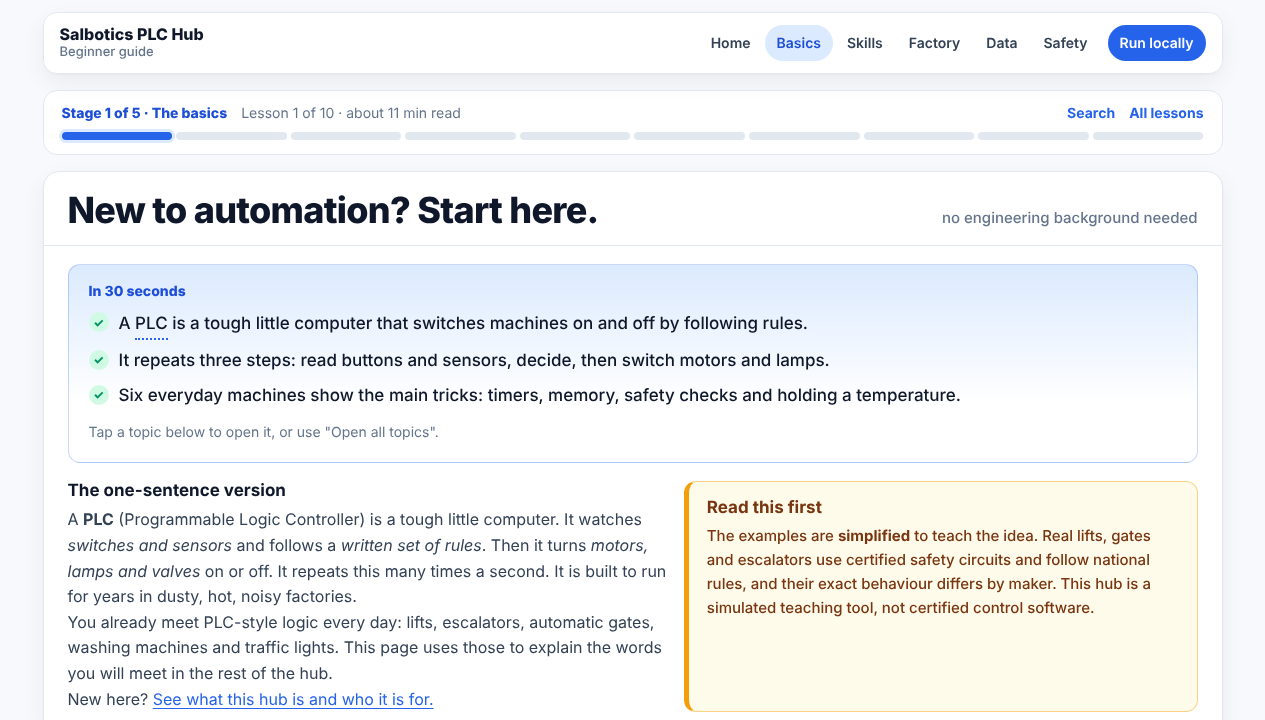
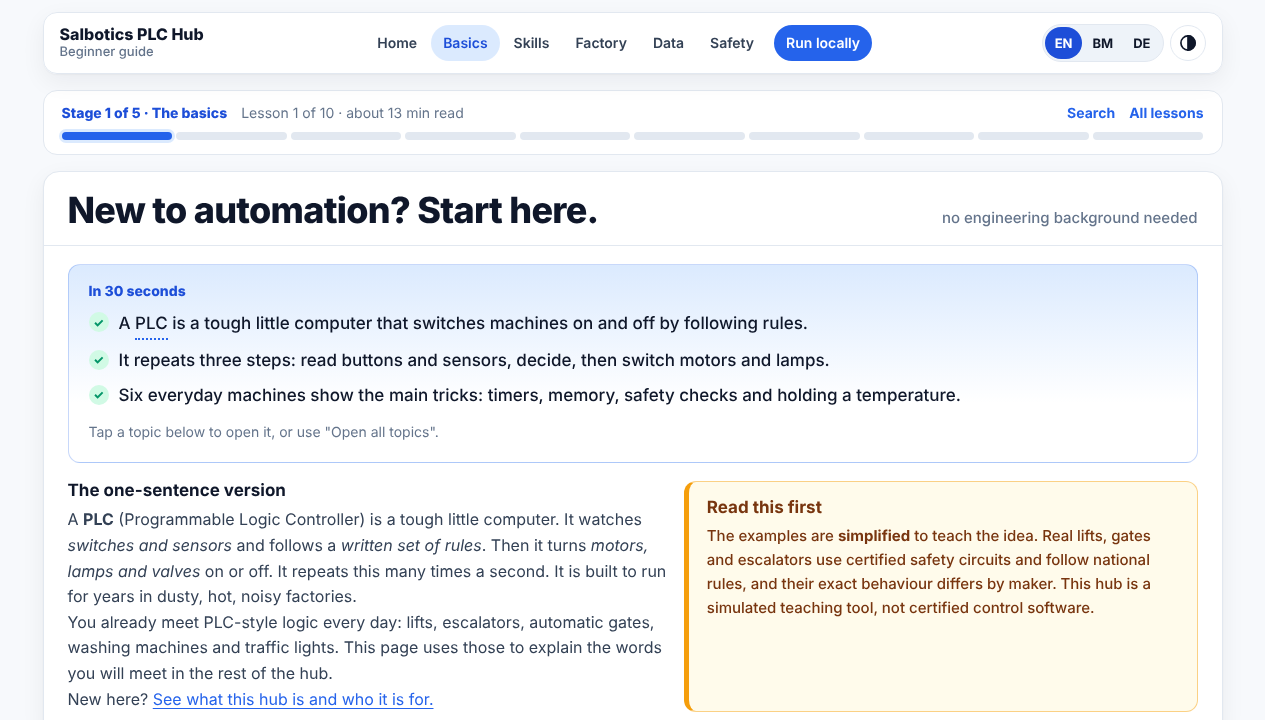
README: lesson layout, dark mode, languages and accessibility
Also draws the theme button icons (Auto, Light, Dark) instead of using
text symbols, which were too small in many fonts. Screenshots refreshed,
plus one in dark mode and German.

Claude-Session: https://claude.ai/code/session_01CaYTZ1WWZpTXfi2GyYrYt8

diff --git a/static/hub-prefs.js b/static/hub-prefs.js
@@ -113,14 +113,20 @@
   }
 
   // ---------- Controls in the top bar ----------
-  var THEME_ICON = { auto: "◐", light: "☀", dark: "☾" };
+  // Small drawn icons (text symbols like ◐ render too small in many fonts).
+  var SVG = '<svg width="20" height="20" viewBox="0 0 24 24" fill="none" stroke="currentColor" stroke-width="2" stroke-linecap="round" aria-hidden="true" focusable="false">';
+  var THEME_ICON = {
+    auto: SVG + '<circle cx="12" cy="12" r="8.5"/><path d="M12 3.5a8.5 8.5 0 0 1 0 17z" fill="currentColor"/></svg>',
+    light: SVG + '<circle cx="12" cy="12" r="4"/><path d="M12 2.5v2.5M12 19v2.5M2.5 12H5M19 12h2.5M5.3 5.3l1.8 1.8M16.9 16.9l1.8 1.8M5.3 18.7l1.8-1.8M16.9 7.1l1.8-1.8"/></svg>',
+    dark: SVG + '<path d="M20 14.5A8.5 8.5 0 1 1 9.5 4a6.8 6.8 0 0 0 10.5 10.5z"/></svg>'
+  };
   var themeButton = null;
   var langButtons = [];
 
   function paintTheme() {
     if (!themeButton) return;
     var names = { auto: hubT("js.theme.auto", "Auto"), light: hubT("js.theme.light", "Light"), dark: hubT("js.theme.dark", "Dark") };
-    themeButton.textContent = THEME_ICON[theme];
+    themeButton.innerHTML = THEME_ICON[theme];   // fixed icons above, no user text
     var label = hubT("js.theme.label", "Colour theme: {name}. Tap to change.", { name: names[theme] });
     themeButton.setAttribute("aria-label", label);
     themeButton.title = label;

diff --git a/static/prefs.css b/static/prefs.css
@@ -30,8 +30,9 @@
 }
 
 .hub-prefs .hub-theme {
+  display: inline-grid;
+  place-items: center;
   padding: 0;
-  font-size: 18px;
 }
 
 /* Language buttons sit together like one switch */

diff --git a/README.md b/README.md
@@ -90,6 +90,17 @@ published automatically from `main` by GitHub Actions:
 - **Sample numbers on the website** - the Phase 3 and Phase 4 dashboards draw a snapshot recorded
   from the trainer (`scripts/build_dashboard_samples.py`), clearly labelled as sample data; the
   local trainer still shows live numbers.
+- **Same simple layout on every lesson** - a plain title (with the "Technical name" underneath),
+  a one-line intro, "In 30 seconds", a one-line safety note with "Read more", topics with plain
+  titles, and "Check yourself" (three tap-to-reveal questions) before "Up next".
+- **Dark mode** - follows the phone or computer setting; the round button in the top bar switches
+  Auto, Light and Dark and is remembered. Diagrams, Ladder rungs and tables stay on light cards.
+- **English, Bahasa Malaysia, Deutsch** - the EN | BM | DE switch in the top bar changes menus,
+  titles, summaries, plain views, questions, glossary meanings and search. English is the default;
+  "Show technical details" stays in English. Translations live in `static/lang/` (see
+  [Translations](#translations)) and still need a native-speaker review.
+- **Accessible** - checked with axe-core on every page (light, dark, BM, DE) with no issues found;
+  a "Skip to content" link, keyboard focus on every control and on wide tables, and labelled switches.
 - **Beginner guide** - PLC basics in plain language using a washing machine, lift,
   automatic gate, escalator, rice cooker, car-park barrier and the trainer's own traffic light,
   with the technical term beside each idea, two diagrams, "Try it" questions and a glossary.
@@ -106,7 +117,7 @@ Details: [docs/STATIC_DEMO_PUBLISHING.md](docs/STATIC_DEMO_PUBLISHING.md).
 
 ## Screenshots
 
-Screenshots refreshed 15 October 2026.
+Screenshots refreshed 21 October 2026.
 
 "What is this?" overview (start page of the live site):
 
@@ -135,6 +146,10 @@ Programming methods and flowcharts:
 On a phone: MENU button, learning-path progress bar and the "In 30 seconds" summary:
 
 <img src="docs/screenshots/mobile.png" alt="Oil-palm lesson on a phone with MENU button, progress bar and 30-second summary" width="320">
+
+The same lesson in dark mode and German:
+
+<img src="docs/screenshots/mobile-dark-de.png" alt="Oil-palm lesson on a phone in dark mode with the German language selected" width="320">
 
 ## What You Can Learn
 
@@ -232,6 +247,20 @@ python -m http.server 8080 --directory site-preview
 ```
 
 The output directory must be new; existing directories are refused.
+
+### Translations
+
+English text lives in the pages. Bahasa Malaysia and German live in `static/lang/ms.json` and
+`static/lang/de.json`, keyed by the `data-i18n` attributes on the pages (and `hubT("js...")` in
+the scripts). After changing page text:
+
+```powershell
+python scripts/i18n_keys.py          # refresh static/lang/en.json (the list of keys)
+python scripts/build_search_index.py # refresh search, including BM/DE
+```
+
+Then add or update the same keys in `ms.json` and `de.json`. The tests fail if a key is missing,
+empty, or has different markup or `{placeholders}` from the English.
 
 ## Frontend Spike
 
